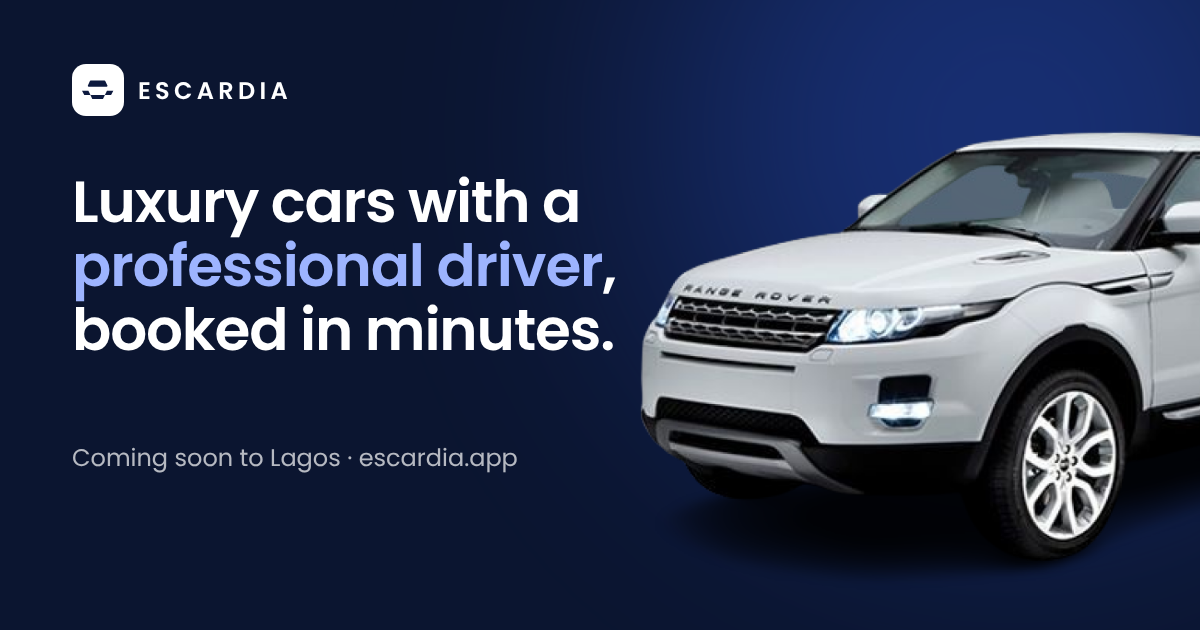
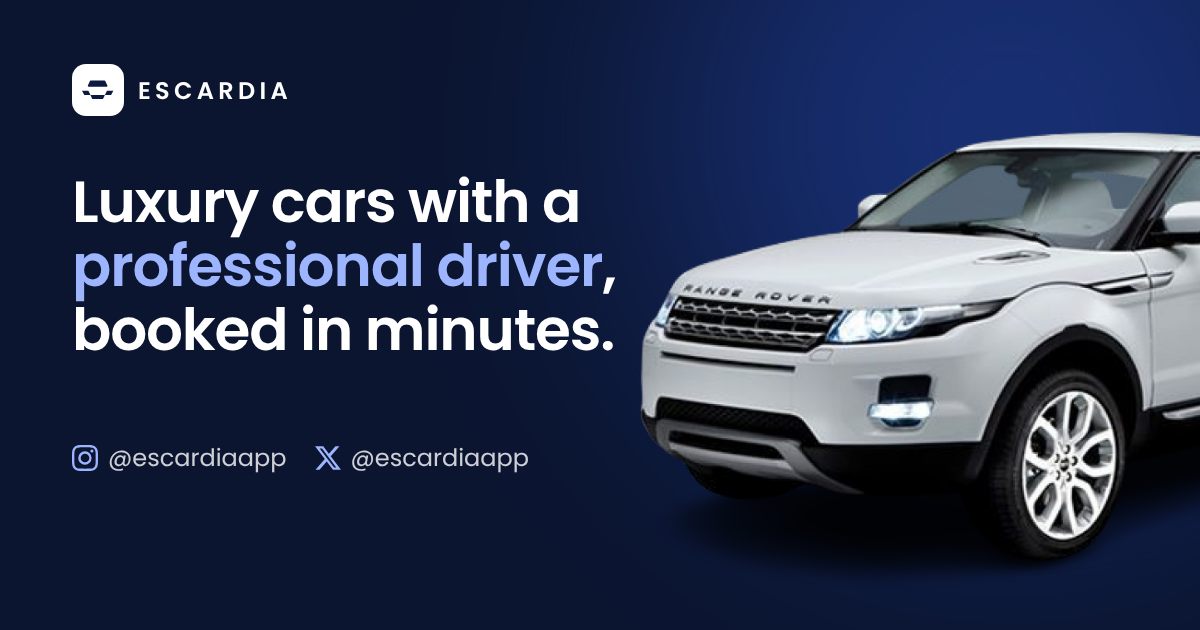
updated opengraph

Changed region(s): [[0.0617, 0.6937, 0.4317, 0.754]]

diff --git a/lib/site.ts b/lib/site.ts
@@ -13,10 +13,10 @@ export const CONTACT = {
   phoneDisplay: "+234 911 651 1460",
   phone: "+2349116511460",
   whatsapp: "https://wa.me/2349116511460",
-  instagram: "https://instagram.com/escardia.co",
-  instagramHandle: "@escardia.co",
-  x: "https://x.com/escardiaco",
-  xHandle: "@escardiaco",
+  instagram: "https://instagram.com/escardiaapp",
+  instagramHandle: "@escardiaapp",
+  x: "https://x.com/escardiaapp",
+  xHandle: "@escardiaapp",
   city: "Lagos, Nigeria",
 };
 

diff --git a/app/layout.tsx b/app/layout.tsx
@@ -37,7 +37,7 @@ export const metadata: Metadata = {
   },
   twitter: {
     card: "summary_large_image",
-    site: "@escardiaco",
+    site: "@escardiaapp",
     title: `${SITE.name} | ${SITE.tagline}`,
     description: SITE.description,
   },
